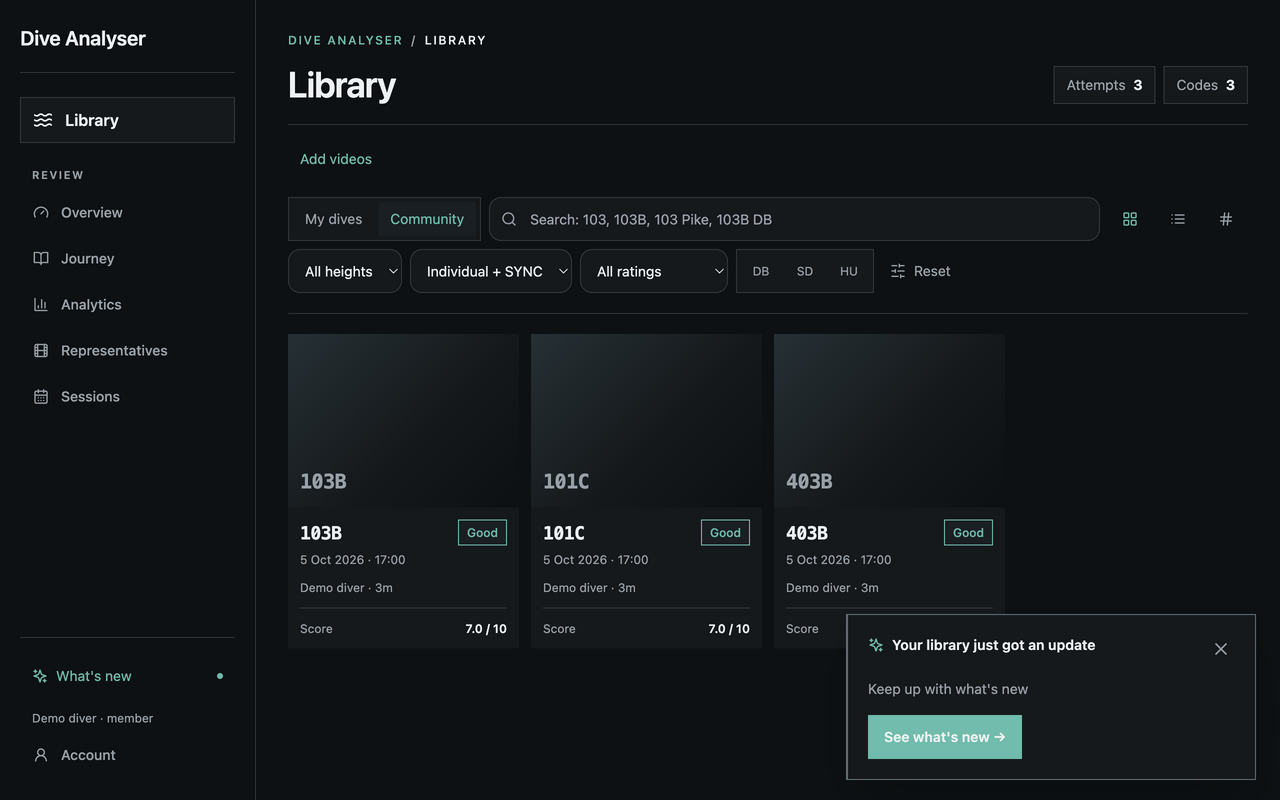
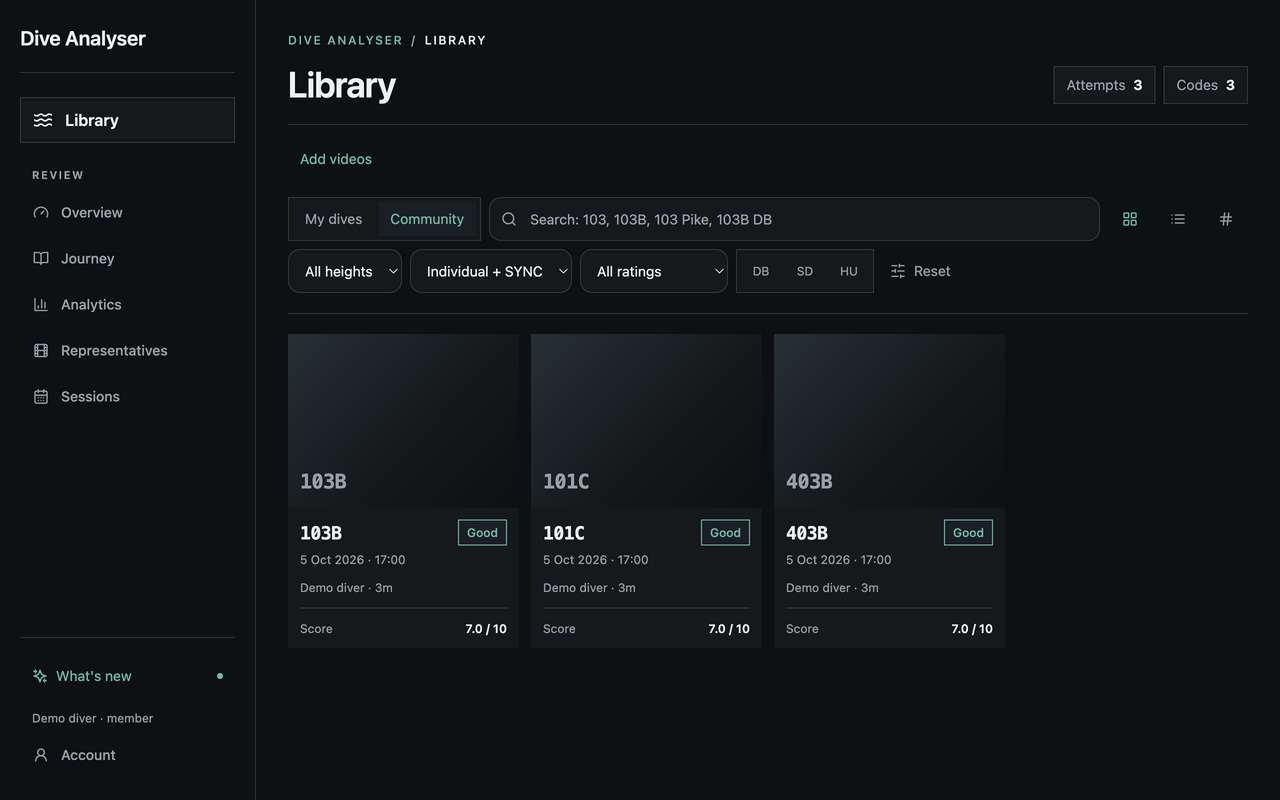
Keep legacy unlabeled services quiet during partial deployments

Changed region(s): [[0.6562, 0.8438, 0.8125, 0.9688], [0.6562, 0.7812, 0.875, 0.8125]]

diff --git a/ci/release-notes.py b/ci/release-notes.py
@@ -53,9 +53,21 @@ def check_tree(root):
 
 
 def build(root, refs):
-    refs = {service: git(root, 'rev-parse', '--verify', f'{ref}^{{commit}}') for service, ref in refs.items()}
+    resolved = {}
+    for service, ref in refs.items():
+        # Legacy images may be unlabeled, and an unreachable SHA cannot prove
+        # feature availability. Omit their notes without blocking the rollout.
+        try:
+            resolved[service] = subprocess.check_output(
+                ['git', '-C', str(root), 'rev-parse', '--verify', f'{ref}^{{commit}}'],
+                text=True, stderr=subprocess.DEVNULL).strip()
+        except subprocess.CalledProcessError:
+            resolved[service] = ''
+    refs = resolved
     candidates = {}
     for ref in set(refs.values()):
+        if not ref:
+            continue
         paths = git(root, 'ls-tree', '-r', '--name-only', ref, '--', NOTE_DIR).splitlines()
         for path in paths:
             if not path.endswith('.json'):
@@ -71,12 +83,14 @@ def build(root, refs):
             candidates[note['id']] = (note, added)
     notes = []
     for note, introduced in candidates.values():
-        if all(component in refs and subprocess.run(
+        if all(refs.get(component) and subprocess.run(
             ['git', '-C', str(root), 'merge-base', '--is-ancestor', introduced, refs[component]],
             stdout=subprocess.DEVNULL, stderr=subprocess.DEVNULL).returncode == 0
                for component in note['components']):
             notes.append(note)
     notes.sort(key=lambda note: (note['date'], note['id']), reverse=True)
+    if not refs.get('frontend'):
+        notes = []  # No reliable frontend identity for the client version guard.
     return {'schema': 1, 'frontend_sha': refs['frontend'], 'notes': notes[:100]}
 
 
@@ -91,7 +105,7 @@ def main():
     if args.command == 'validate':
         check_tree(args.root)
         return
-    if not args.frontend or not args.backend:
+    if args.frontend is None or args.backend is None:
         parser.error('build requires --frontend and --backend')
     manifest = build(args.root, {'frontend': args.frontend, 'backend': args.backend})
     rendered = json.dumps(manifest, ensure_ascii=False, indent=2) + '\n'

diff --git a/ci/tests/test_release_notes.py b/ci/tests/test_release_notes.py
@@ -69,3 +69,15 @@ class ReleaseNotesTests(unittest.TestCase):
         (self.root / notes.NOTE_DIR / 'first.json').unlink()
         with self.assertRaises(ValueError):
             notes.check_tree(self.root)
+
+    def test_legacy_unlabeled_services_do_not_block_partial_deployment(self):
+        frontend_note = {**self.note, 'id': 'frontend-only', 'components': ['frontend']}
+        self.write(frontend_note)
+        current = self.commit()
+        for unknown in ['', '<no value>', 'unreachable-sha']:
+            with self.subTest(unknown=unknown):
+                self.assertEqual(self.build(current, unknown)['notes'], [frontend_note])
+                self.assertEqual(self.build(unknown, current)['notes'], [])
+                command = ['python3', str(Path(notes.__file__)), 'build', '--root', str(self.root),
+                           '--frontend', current, '--backend', unknown]
+                self.assertEqual(json.loads(subprocess.check_output(command, text=True))['notes'], [frontend_note])

diff --git a/docs/RELEASE_NOTES.md b/docs/RELEASE_NOTES.md
@@ -33,6 +33,9 @@ fails the deployment and restores the previous images, leaving the previous
 catalog intact. Explicit rollback recomputes eligibility from the services that
 actually run. No Compose changes or SQL migration are needed. `--force` produces
 the same note IDs and does not create another announcement.
+Legacy services without a usable SHA label are treated as unavailable for
+note eligibility; they never block a partial deploy. An unknown frontend SHA
+keeps the entire catalog quiet until its identity is known.
 
 The UI polls the authenticated `/api/v1/updates` once a minute while visible,
 and on focus. It groups unseen notes into one hint and durably claims a
